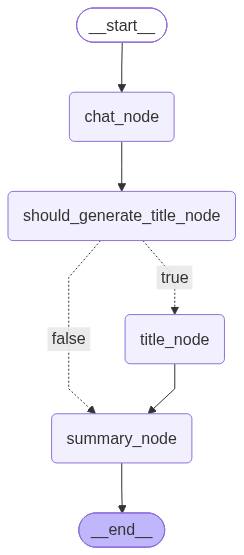
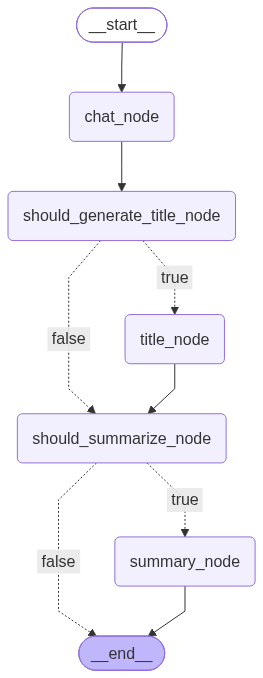
add summarize node with conditional edge

diff --git a/src/app/memory/summary_memory.py b/src/app/memory/summary_memory.py
@@ -13,11 +13,7 @@ class SummaryMemory:
         self.message_repo = MessageRepository()
         self.summary_agent = SummaryAgent()
 
-    def should_summarize(
-            self,
-            conversation_count: int,
-            last_summary_until: int,
-        ) -> tuple[bool, int | None]:
+    def should_summarize(self, session_id: str) -> tuple[bool, int | None]:
     
         """
         Decide whether a new conversation summary should be generated.
@@ -27,20 +23,22 @@ class SummaryMemory:
             (False, None)              -> Do nothing
         """
 
+        metadata = self.summary_metadata(session_id=session_id)
+
         trigger_count = (
             settings.summary_settings.STEP_THRESHOLD
-            + last_summary_until
+            + metadata["last_summary_until"]
             )
 
-        if conversation_count == trigger_count:
-            return True, last_summary_until + 1
+        if metadata["conversation_count"] == trigger_count:
+            return True, metadata["last_summary_until"] + 1
 
         return False, None
-    
-    def update_summary(self, session_id: str) -> None:
+
+    def summary_metadata(self, session_id: str) -> dict:
 
         conversation_count = self.message_repo.fetch_conversation_count(session_id)
-
+        
         last_summary = self.summary_repo.fetch_last_summary_by_session_id(session_id)
 
         if last_summary:
@@ -52,34 +50,36 @@ class SummaryMemory:
             previous_summary = None
             summary_version = 1
 
-        summarize, start_message_num = self.should_summarize(
-                                conversation_count=conversation_count,
-                                last_summary_until=last_summary_until,
-                            )
+        return {
+            "conversation_count": conversation_count,
+            "last_summary_until": last_summary_until,
+            "previous_summary": previous_summary,
+            "summary_version": summary_version
+        }
+    
+    def update_summary(self, session_id: str) -> None:
 
-        if summarize:
+        metadata = self.summary_metadata(session_id=session_id)
 
-            offset = start_message_num - 1
+        conversation = self.message_repo.fetch_messages_range(
+            session_id=session_id,
+            offset=metadata["last_summary_until"],
+        )
 
-            conversation = self.message_repo.fetch_messages_range(
-                session_id=session_id,
-                offset=offset,
-            )
+        summary = self.summary_agent.generate_summary(
+            new_conversation=conversation,
+            previous_summary=metadata["previous_summary"],
+        )
 
-            summary = self.summary_agent.generate_summary(
-                new_conversation=conversation,
-                previous_summary=previous_summary,
-            )
+        covers_until_message_id = metadata["conversation_count"] - settings.summary_settings.KEEP_LAST_MESSAGES
 
-            covers_until_message_id = conversation_count - settings.summary_settings.KEEP_LAST_MESSAGES
-
-            self.summary_repo.insert_summary(
-                session_id=session_id,
-                summary_version=summary_version,
-                messages_summary=summary,
-                covers_until_message_id=covers_until_message_id,
-                created_at=datetime.now(),
-            )
+        self.summary_repo.insert_summary(
+            session_id=session_id,
+            summary_version=metadata["summary_version"],
+            messages_summary=summary,
+            covers_until_message_id=covers_until_message_id,
+            created_at=datetime.now(),
+        )
 
     # def should_summarize(
     #         self,

diff --git a/src/app/graph/graph.py b/src/app/graph/graph.py
@@ -1,11 +1,5 @@
 from src.app.graph.state import ChatbotState
-from src.app.graph.nodes import (
-    chat_node,
-    should_generate_title_node,
-    title_router,
-    title_node,
-    summary_node
-)
+from src.app.graph.nodes import *
 
 from langgraph.graph import StateGraph, START, END
 
@@ -21,6 +15,7 @@ class GraphBuilder:
         self.chatbot_graph.add_node("chat_node", chat_node)
         self.chatbot_graph.add_node("should_generate_title_node", should_generate_title_node)
         self.chatbot_graph.add_node("title_node", title_node)
+        self.chatbot_graph.add_node("should_summarize_node", should_summarize_node)
         self.chatbot_graph.add_node("summary_node", summary_node)
 
     def create_edges(self):
@@ -28,16 +23,26 @@ class GraphBuilder:
         # Creating edges
         self.chatbot_graph.add_edge(START, "chat_node")
         self.chatbot_graph.add_edge("chat_node", "should_generate_title_node")
+
         self.chatbot_graph.add_conditional_edges(
             "should_generate_title_node",
             title_router,
             {
                 "true": "title_node",
-                "false": "summary_node"
+                "false": "should_summarize_node"
             }
         )
 
-        self.chatbot_graph.add_edge("title_node", "summary_node")
+        self.chatbot_graph.add_conditional_edges(
+            "should_summarize_node",
+            summarize_router,
+            {
+                "true": "summary_node",
+                "false": END
+            }
+        )
+
+        self.chatbot_graph.add_edge("title_node", "should_summarize_node")
         self.chatbot_graph.add_edge("summary_node", END)
 
     def graph_builder(self):

diff --git a/src/app/graph/nodes.py b/src/app/graph/nodes.py
@@ -23,16 +23,13 @@ def chat_node(state: ChatbotState):
 
 def should_generate_title_node(state: ChatbotState):
     bool = title_agent.should_generate_title(session_id=state["session_id"])
-
     return {
         "should_generate_title": bool
     }
 
 def title_router(state: ChatbotState):
-
     if state["should_generate_title"]:
         return "true"
-
     return "false"
 
 def title_node(state: ChatbotState):
@@ -41,9 +38,16 @@ def title_node(state: ChatbotState):
         "title": updated_title
     }
 
-# def should_summarize_node(state: ChatbotState):
+def should_summarize_node(state: ChatbotState):
+    bool, _ = summary_memory.should_summarize(session_id=state["session_id"])
+    return {
+        "should_summarize": bool
+    }
 
-
+def summarize_router(state: ChatbotState):
+    if state["should_summarize"]:
+        return "true"
+    return "false"
 
 def summary_node(state: ChatbotState):
     summary = summary_memory.update_summary(session_id=state["session_id"])

diff --git a/src/app/agents/summary_agent.py b/src/app/agents/summary_agent.py
@@ -9,10 +9,6 @@ class SummaryAgent:
 
         self.ollama = OllamaClient()
         self.prompt_loader = PromptLoading()
-
-        self.summary_prompt = self.prompt_loader.load_prompt(
-                                self.prompt_loader.SUMMARY_PROMPT
-                            )
     
     def conversation_to_text(self, conversation: list[ChatMessage]) -> str:
 

diff --git a/src/app/graph/visualize.py b/src/app/graph/visualize.py
@@ -11,7 +11,7 @@ graph_compile = graph.graph_builder()
 
 graph_image = graph_compile.get_graph().draw_mermaid_png()
 
-with open("chatbot_graph.png", "wb") as file:
+with open("./chatbot_graph.png", "wb") as file:
     file.write(graph_image)
 
 # uv run python -m src.app.graph.visualize

diff --git a/src/app/graph/state.py b/src/app/graph/state.py
@@ -7,4 +7,5 @@ class ChatbotState(TypedDict):
     llm_response: str
     should_generate_title: bool
     title: str
+    should_summarize: bool
     summary: str
